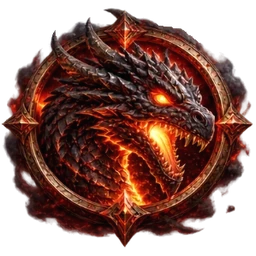
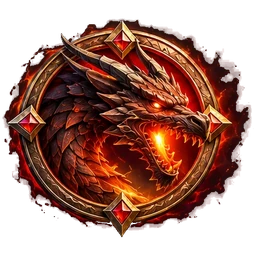
Use the new ChatGPT symbol set and theme the bonus buttons
Replace all 11 symbols with the new painted set: the dark background
is keyed out with soft alpha so glows (trident sparks, bolt haze,
dragon fire) stay translucent, and each icon is sliced cleanly. The
bonus buttons move from flat gold/red to the machine palette:
night-blue and deep-violet glass with a gold filet and storm glows.

Claude-Session: https://claude.ai/code/session_01NoK5NqVHYxmPSMTSWZJXDF

diff --git a/style.css b/style.css
@@ -1109,3 +1109,34 @@ button:focus-visible { outline: 2px solid #9fe3ff; outline-offset: 2px; }
     conic-gradient(from 0deg, rgba(200, 160, 255, 0), rgba(200, 160, 255, 0.45), rgba(70, 20, 140, 0) 35%, rgba(220, 190, 255, 0.4) 60%, rgba(70, 20, 140, 0) 80%),
     radial-gradient(circle at 50% 38%, #9a6ae0, #4a1a8c 45%, #1c0636 82%);
 }
+
+/* bonus buttons in the machine's palette: night-blue glass, gold filet, storm glows */
+.buy-btn {
+  color: #f3dc9a;
+  background: linear-gradient(180deg, rgba(34, 50, 88, 0.96), rgba(8, 13, 26, 0.97));
+  border: 1px solid #c9a24a;
+  box-shadow: inset 0 0 0 1px rgba(255, 232, 170, 0.18), inset 0 10px 18px rgba(127, 190, 255, 0.12), 0 0 18px rgba(80, 150, 255, 0.45);
+  animation-name: buyGlowBlue;
+}
+.buy-btn .buy-label {
+  background: linear-gradient(180deg, #fff6d0, #f2c65a 55%, #b57a1c);
+  -webkit-background-clip: text;
+  background-clip: text;
+  color: transparent;
+  filter: drop-shadow(0 1px 0 rgba(0, 0, 0, 0.6));
+}
+.buy-btn .buy-price { color: #c6d3ea; }
+.buy-super {
+  background: linear-gradient(180deg, rgba(70, 34, 122, 0.96), rgba(18, 6, 36, 0.97));
+  border-color: #c9a24a;
+  box-shadow: inset 0 0 0 1px rgba(255, 232, 170, 0.18), inset 0 10px 18px rgba(200, 150, 255, 0.14), 0 0 20px rgba(150, 80, 240, 0.55);
+  animation-name: buyGlowViolet;
+}
+.buy-super .buy-price { color: #dccbff; }
+.buy-btn:hover { filter: brightness(1.15); }
+@keyframes buyGlowBlue { 50% { box-shadow: inset 0 0 0 1px rgba(255, 232, 170, 0.25), inset 0 10px 18px rgba(127, 190, 255, 0.18), 0 0 32px rgba(100, 170, 255, 0.8); } }
+@keyframes buyGlowViolet { 50% { box-shadow: inset 0 0 0 1px rgba(255, 232, 170, 0.25), inset 0 10px 18px rgba(200, 150, 255, 0.2), 0 0 34px rgba(170, 100, 255, 0.85); } }
+/* the confirm dialog's main button follows the same gold filet */
+.offer-buy, #confirmYes { color: #2b1a02; }
+.offer-super { border-color: rgba(170, 110, 255, 0.55); box-shadow: inset 0 0 30px rgba(150, 80, 240, 0.14); }
+.offer-super .offer-art .art { filter: drop-shadow(0 0 16px rgba(170, 100, 255, 0.6)); }
